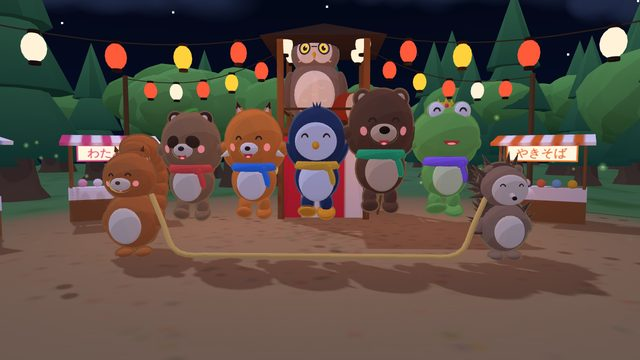
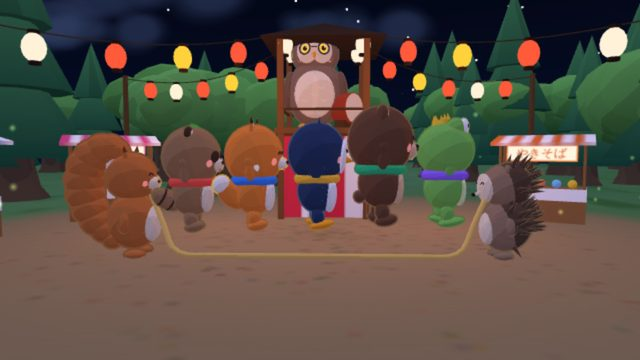
お祭りの 大なわとび: 5人を 横向きに、回す2人は 元の 内向きに
とぶ5人は みんな 同じ 横向き(右向き)で 1列に。勝った子は こちらを 向いて よろこぶ。
回す2人は 正面向きを やめて、元どおり 内がわを 向いて 回す。

Claude-Session: https://claude.ai/code/session_01Cisc6eBGskeR7WZHkdup4y

diff --git a/src/games/nawa/game.js b/src/games/nawa/game.js
@@ -20,6 +20,7 @@ const SLOTS = 5;
 const params = new URLSearchParams(location.search);
 const HIGH_AMP = AXIS_Y - RULES.clearHigh - 0.08; // 大なみの なわの ふれはば(足もとより 高い ところを 通る)
 const LOW_AMP = AXIS_Y - 0.03;
+const SIDE = Math.PI / 2; // とぶ子の 向き(右を 向いて 1列に ならぶ)
 
 export async function createNawa({ renderer, settings, getAudio, onExit }) {
   const scene = new THREE.Scene();
@@ -99,13 +100,13 @@ export async function createNawa({ renderer, settings, getAudio, onExit }) {
   scene.add(owl.root);
   const turners = await Promise.all([['risu', -1], ['harinezumi', 1]].map(async ([kind, sx]) => {
     const m = await createModel(kind);
-    // 正面を 向いて、内がわの 手で なわを 回す
     m.root.position.set(sx * TURN_X, 0, 0);
+    m.root.rotation.y = -sx * Math.PI / 2;
     m.root.scale.setScalar(1.35);
     m.play('idle');
     m.setFace('happy');
     scene.add(m.root);
-    return { model: m, sx, arm: m.node(sx < 0 ? 'arm_L' : 'arm_R') };
+    return { model: m, sx, arm: m.node(sx < 0 ? 'arm_R' : 'arm_L') || m.node('arm_R') };
   }));
   atmosphere.setupShadows([stage.group, owl.root, ...turners.map((t) => t.model.root)], [stage.group]);
 
@@ -443,7 +444,7 @@ export async function createNawa({ renderer, settings, getAudio, onExit }) {
     for (const u of game.units) {
       const r = s.runners[u.slot];
       u.squash = Math.max(0, u.squash - dt * 6);
-      let clip = 'idle', face = 'normal', x = u.home, y = r.y, z = 0, rotY = 0;
+      let clip = 'idle', face = 'normal', x = u.home, y = r.y, z = 0, rotY = SIDE; // とぶ子は みんな 同じ 横向き
       if (u.out) {
         // ひっかかった: その場で ころんで、うしろの ベンチへ
         u.out.t += dt;
@@ -453,10 +454,10 @@ export async function createNawa({ renderer, settings, getAudio, onExit }) {
         y = 0;
         clip = u.out.t < 1.0 ? 'dizzy' : k < 1 ? 'run' : 'idle';
         face = u.out.t < 1.0 ? 'frustrated' : 'normal';
-        rotY = k > 0 && k < 1 ? Math.atan2(u.out.bench.x - u.home, u.out.bench.z) : 0;
+        rotY = k <= 0 ? SIDE : k < 1 ? Math.atan2(u.out.bench.x - u.home, u.out.bench.z) : 0;
         if (s.phase === 'finished') { clip = 'wave'; face = 'happy'; }
       } else if (s.phase === 'finished') {
-        clip = 'cheer'; face = 'happy';
+        clip = 'cheer'; face = 'happy'; rotY = 0; // 勝った子は こちらを 向いて よろこぶ
         y = Math.abs(Math.sin(time * 6)) * 0.3;
       } else if (r.air) {
         clip = 'cheer'; face = r.vy > 0 ? 'happy' : 'surprised';
@@ -482,11 +483,7 @@ export async function createNawa({ renderer, settings, getAudio, onExit }) {
     amp += (target - amp) * Math.min(1, dt * 6);
     shapeRope(s.phase === 'ready' ? Math.PI : r.theta);
     for (const t of turners) {
-      if (t.arm) {
-        // 腕を 内がわへ のばして、なわと いっしょに 小さく 回す
-        t.arm.rotation.z = -t.sx * (1.2 - Math.cos(r.theta) * 0.25);
-        t.arm.rotation.x = -Math.sin(r.theta) * 0.5;
-      }
+      if (t.arm) t.arm.rotation.x = -1.2 + Math.sin(r.theta) * 0.6 * t.sx;
       t.model.update(dt);
     }
     // カエル: くずれた リズムで ぴょこぴょこ

diff --git a/sw.js b/sw.js
@@ -10,7 +10,7 @@
 // 版はファイルの中身から作るので、1つでも変われば sw.js が変わり、ブラウザが入れなおす。
 
 // <precache>
-const VERSION = '447edd44d09e';
+const VERSION = '3b91d69fc5b3';
 const PRECACHE = [
   "./",
   "./assets/thumbs/catch.jpg",

diff --git a/docs/minigames/nawa.md b/docs/minigames/nawa.md
@@ -31,7 +31,7 @@
 
 ## 画面(`src/games/nawa/game.js`, `stage.js`)
 
-- 会場: 森に かこまれた 夜の 広場。5人は となりと 重ならない 間を あけて ならぶ。回す2人も みんなも 正面を 向く。奥に 紅白の 幕の やぐら(上で ホーホー先生が 大太鼓)。
+- 会場: 森に かこまれた 夜の 広場。5人は となりと 重ならない 間を あけて、みんな 同じ 横向き(右向き)で 1列に ならぶ。回す2人は 内がわを 向く。勝った子は こちらを 向いて よろこぶ。奥に 紅白の 幕の やぐら(上で ホーホー先生が 大太鼓)。
   やぐらの てっぺんから まわりの 柱へ ちょうちんの ひも。左右の 奥に 屋台(わたあめ・やきそば・きんぎょ)。
 - なわ: 回す子の 手を むすぶ 黄色い なわが、まん中は 平らなまま ぐるりと 回る。大なみの 1回は ふれはばが 小さく(高い ところを 通る)。
   通るたびに 先生の 太鼓が ドン。
